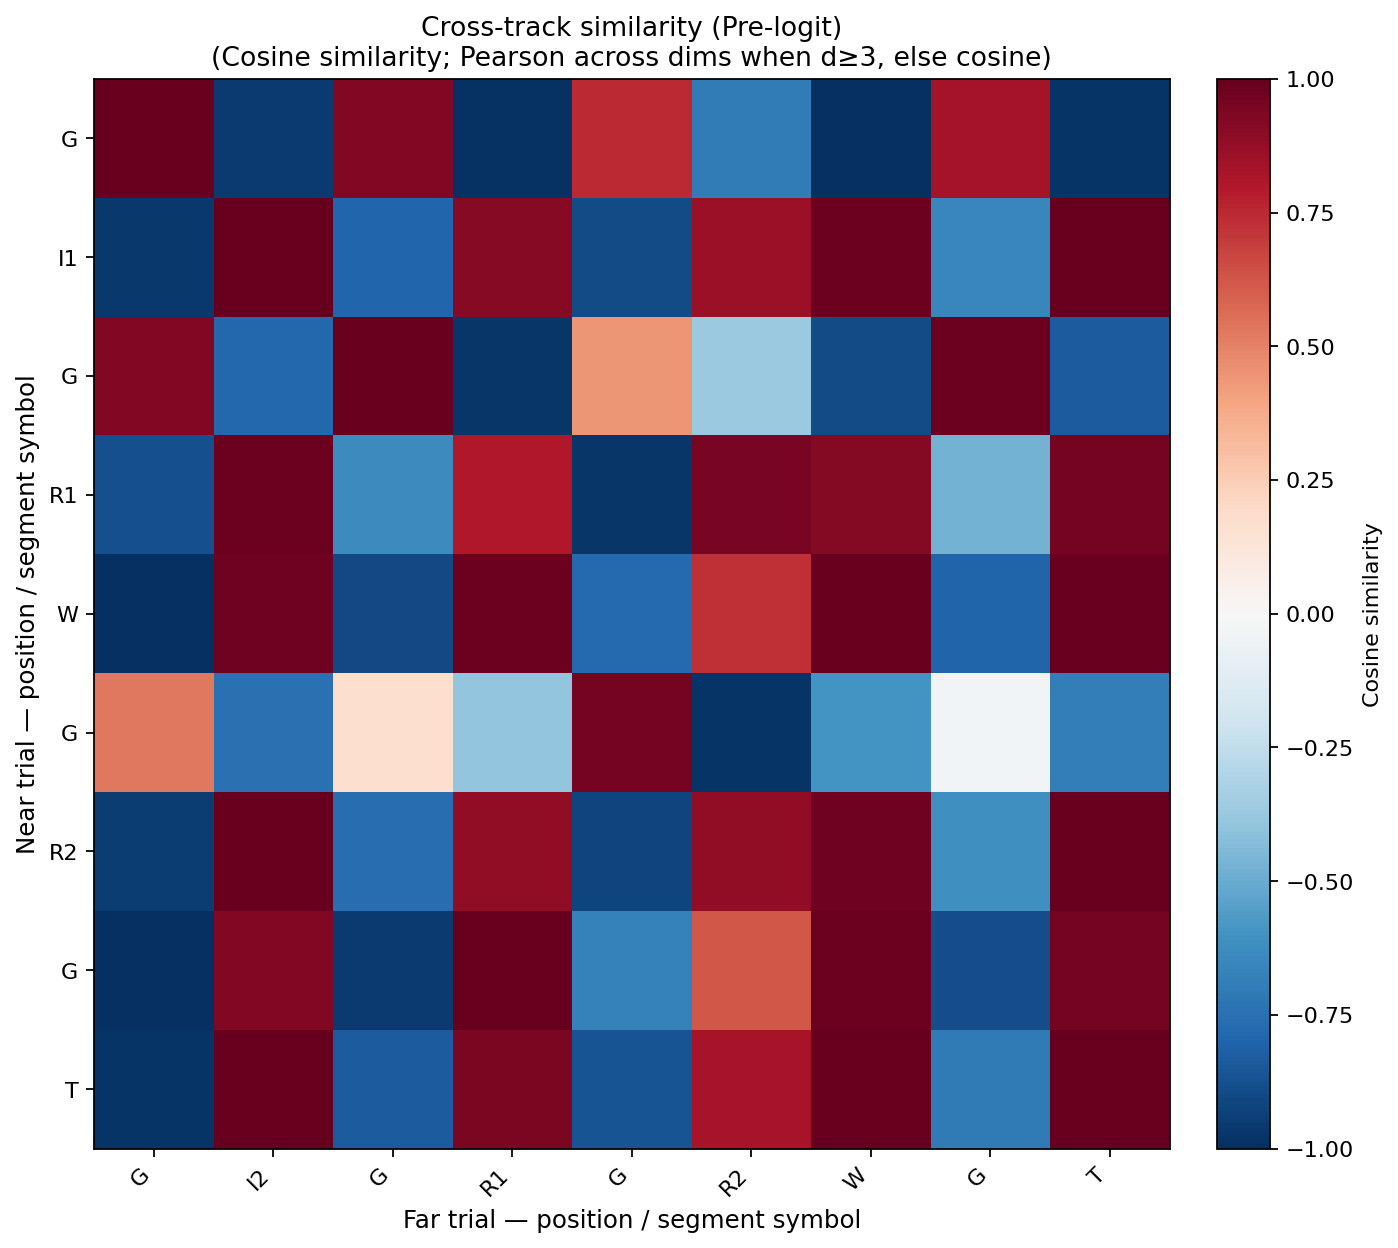
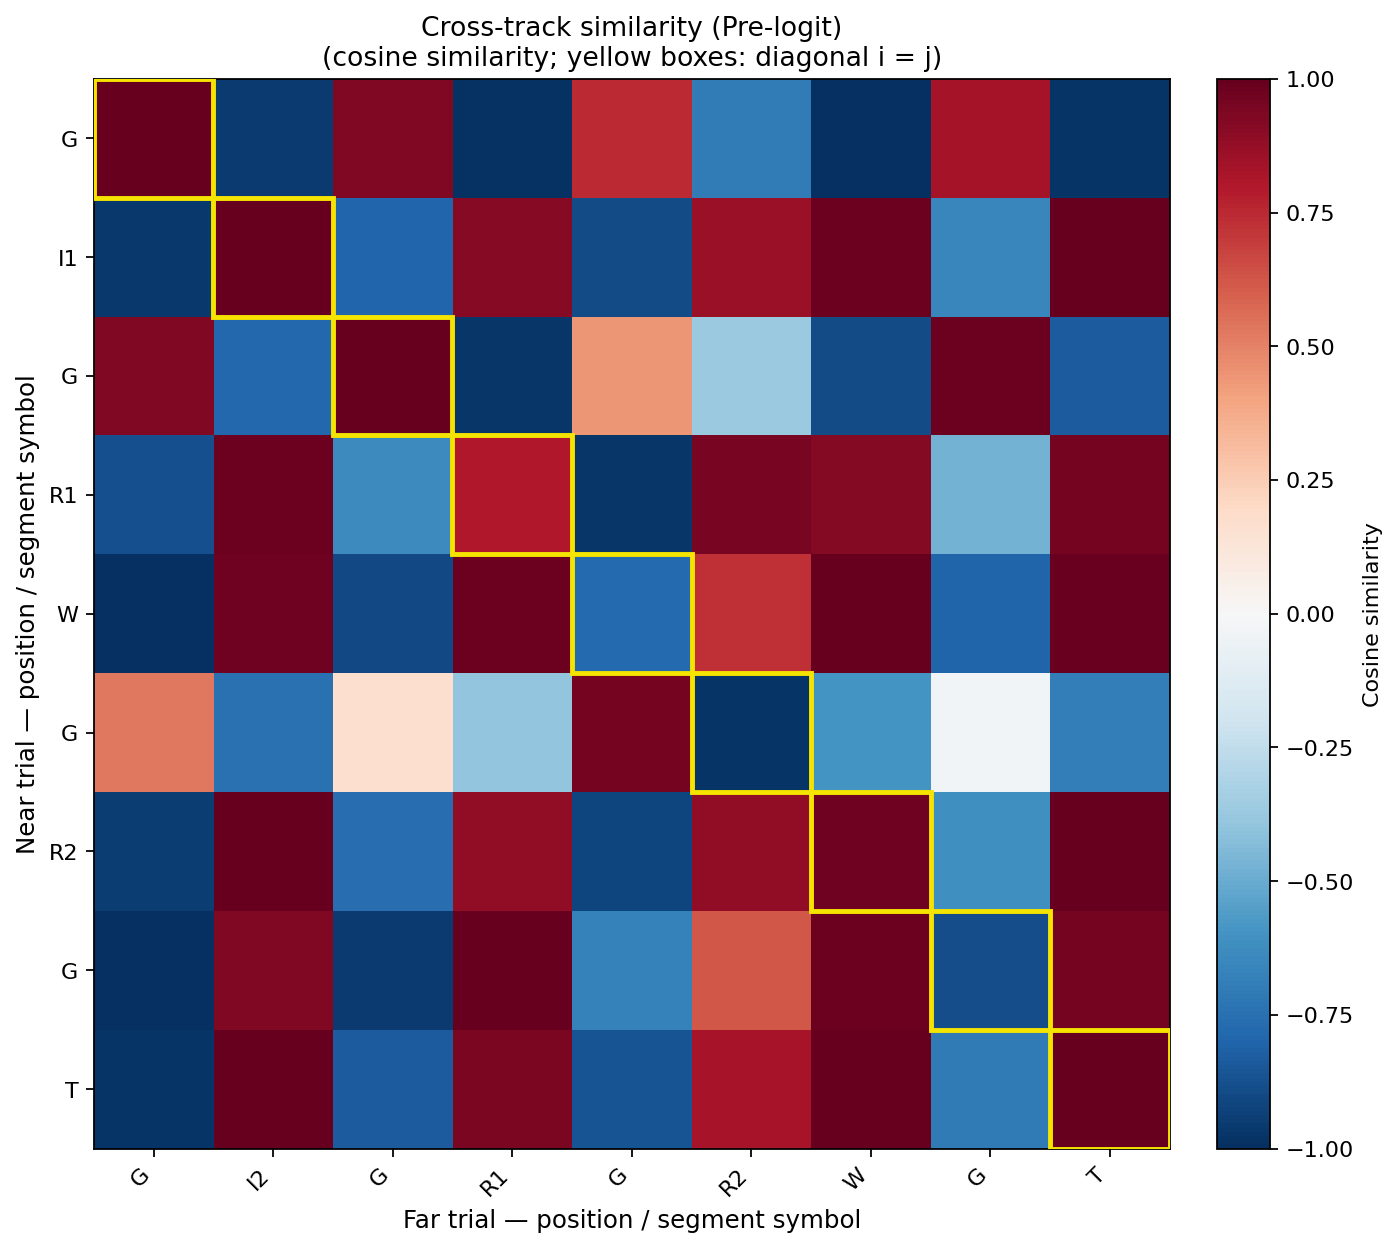
stuff

diff --git a/plotting/spruston_representation_correlation.py b/plotting/spruston_representation_correlation.py
@@ -1,33 +1,57 @@
-"""Near vs far trial representation correlation (Spruston-style) + training evolution grid."""
+"""Near vs far trial representation similarity (Spruston-style) + training evolution grid."""
 import os
 
 import matplotlib.pyplot as plt
 import numpy as np
 import torch
+from matplotlib.patches import Rectangle
 
 from checkpoint import list_available_checkpoints, load_checkpoint
 
 
-def _pearson_r(u: np.ndarray, v: np.ndarray) -> float:
-    """Pearson r with u_k, v_k as paired samples across channel index k."""
+def _imshow_extent(n_near: int, n_far: int) -> tuple[float, float, float, float]:
+    """Left, right, bottom, top so row i / col j cell centers align with integers."""
+    return (-0.5, n_far - 0.5, n_near - 0.5, -0.5)
+
+
+def _outline_diagonal(ax, n_near: int, n_far: int, *, edgecolor: str = "#f5e400", linewidth: float = 2.2):
+    """Draw a box around cells M[i, i] for i < min(n_near, n_far)."""
+    m = min(n_near, n_far)
+    for i in range(m):
+        ax.add_patch(
+            Rectangle(
+                (i - 0.5, i - 0.5),
+                1.0,
+                1.0,
+                fill=False,
+                edgecolor=edgecolor,
+                linewidth=linewidth,
+                zorder=10,
+            )
+        )
+
+
+def _cosine_similarity(u: np.ndarray, v: np.ndarray) -> float:
     u = np.asarray(u, dtype=np.float64).reshape(-1)
     v = np.asarray(v, dtype=np.float64).reshape(-1)
     if u.shape != v.shape:
         return float("nan")
-    su = float(np.std(u))
-    sv = float(np.std(v))
-    if su < 1e-12 or sv < 1e-12:
+    nu = float(np.linalg.norm(u))
+    nv = float(np.linalg.norm(v))
+    if nu < 1e-12 and nv < 1e-12:
         return 1.0 if np.allclose(u, v) else 0.0
-    return float(np.corrcoef(u, v)[0, 1])
+    if nu < 1e-12 or nv < 1e-12:
+        return 0.0
+    return float(np.clip(np.dot(u, v) / (nu * nv), -1.0, 1.0))
 
 
-def _corr_matrix(a: np.ndarray, b: np.ndarray) -> np.ndarray:
-    """a: (Ta, d), b: (Tb, d) → (Ta, Tb) Pearson r between rows across dims."""
+def _sim_matrix(a: np.ndarray, b: np.ndarray) -> np.ndarray:
+    """a: (Ta, d), b: (Tb, d) → (Ta, Tb) cosine similarity between rows."""
     ta, tb = a.shape[0], b.shape[0]
     out = np.zeros((ta, tb), dtype=np.float64)
     for i in range(ta):
         for j in range(tb):
-            out[i, j] = _pearson_r(a[i], b[j])
+            out[i, j] = _cosine_similarity(a[i], b[j])
     return out
 
 
@@ -39,19 +63,13 @@ def _attention_heads(model):
 
 @torch.no_grad()
 def _representation_dict(model: torch.nn.Module, idx: torch.Tensor) -> dict[str, np.ndarray]:
-    """idx: (1, T). Stacks for Pearson r **across channels** (paired u_k, v_k).
-
-    Token+position **sum** has only n_embd channels; Pearson needs ≥3 paired samples,
-    so with n_embd=2 correlating only the sum collapses to r ∈ {−1, 1}. We therefore
-    concatenate **separate** token and position embeddings, and prepend that to Q/K/V/pre.
-    """
+    """idx: (1, T). Per-position vectors for cosine similarity (tok+pos sum; Q/K/V/pre)."""
     device = idx.device
     B, T = idx.shape
     token_emb = model.token_embedding(idx)
     positions = torch.arange(T, device=device) % model.block_size
     pos_emb = model.position_embedding_table(positions)
     e = token_emb + pos_emb
-    base = torch.cat([token_emb, pos_emb], dim=-1)
 
     heads = _attention_heads(model)
     blocks = getattr(model, "blocks", None)
@@ -70,11 +88,11 @@ def _representation_dict(model: torch.nn.Module, idx: torch.Tensor) -> dict[str,
     _, _, pre = model(idx, return_hidden=True)
 
     return {
-        "emb": base[0].detach().cpu().numpy(),
-        "q": torch.cat([base, qs], dim=-1)[0].detach().cpu().numpy(),
-        "k": torch.cat([base, ks], dim=-1)[0].detach().cpu().numpy(),
-        "v": torch.cat([base, vs], dim=-1)[0].detach().cpu().numpy(),
-        "pre": torch.cat([base, pre], dim=-1)[0].detach().cpu().numpy(),
+        "emb": e[0].detach().cpu().numpy(),
+        "q": qs[0].detach().cpu().numpy(),
+        "k": ks[0].detach().cpu().numpy(),
+        "v": vs[0].detach().cpu().numpy(),
+        "pre": pre[0].detach().cpu().numpy(),
     }
 
 
@@ -87,11 +105,10 @@ def plot_spruston_near_far_evolution_grid(
     n_times: int = 5,
 ):
     """
-    5 rows × n_times columns: columns are checkpoints; rows are Embedding (tok ‖ pos),
-    Q/K/V/pre (each = tok ‖ pos ‖ that representation).
+    5 rows × n_times columns: checkpoints × (Embedding, Q, K, V, Pre-logit).
 
-    Each cell: Pearson r across channels between stacked vectors at near vs far positions
-    (emb = tok‖pos; q/k/v/pre = tok‖pos‖· ; cf. Sun et al.-style population correlation).
+    Each cell: cosine similarity between near-row vs far-column vectors at that segment.
+    Diagonal cells M[i, i] (matched segment index) are outlined when lengths allow.
     """
     steps_sorted = sorted(list_available_checkpoints(config_name_actual))
 
@@ -114,9 +131,11 @@ def plot_spruston_near_far_evolution_grid(
 
     labels_near = [str(itos[int(seq_near_ids[t])]) for t in range(len(seq_near_ids))]
     labels_far = [str(itos[int(seq_far_ids[t])]) for t in range(len(seq_far_ids))]
+    Ln, Lf = len(labels_near), len(labels_far)
+    extent = _imshow_extent(Ln, Lf)
 
     row_keys = ["emb", "q", "k", "v", "pre"]
-    row_labels = ["Embedding\n(tok ‖ pos)", "Q", "K", "V", "Pre-logit"]
+    row_labels = ["Embedding\n(tok+pos)", "Q", "K", "V", "Pre-logit"]
 
     fig, axes = plt.subplots(
         len(row_keys),
@@ -145,9 +164,18 @@ def plot_spruston_near_far_evolution_grid(
 
         for row, key in enumerate(row_keys):
             ax = axes[row, col]
-            M = _corr_matrix(rn[key], rf[key])
-            im = ax.imshow(M, cmap="RdBu_r", vmin=-1.0, vmax=1.0, aspect="auto")
+            M = _sim_matrix(rn[key], rf[key])
+            im = ax.imshow(
+                M,
+                cmap="RdBu_r",
+                vmin=-1.0,
+                vmax=1.0,
+                aspect="auto",
+                extent=extent,
+                origin="upper",
+            )
             last_im = im
+            _outline_diagonal(ax, Ln, Lf)
             ax.set_xticks([])
             ax.set_yticks([])
             if row == 0:
@@ -165,16 +193,16 @@ def plot_spruston_near_far_evolution_grid(
                     fontsize=10,
                 )
             if row == len(row_keys) - 1:
-                ax.set_xticks(range(len(labels_far)))
+                ax.set_xticks(range(Lf))
                 ax.set_xticklabels(labels_far, rotation=55, ha="right", fontsize=7)
                 ax.set_xlabel("Far trial position", fontsize=9)
             if col == 0:
-                ax.set_yticks(range(len(labels_near)))
+                ax.set_yticks(range(Ln))
                 ax.set_yticklabels(labels_near, fontsize=7)
 
     fig.suptitle(
-        "Near vs far: Pearson r across channels over training\n"
-        "(emb = tok ‖ pos; other rows prepend tok ‖ pos to Q/K/V/pre-logit)",
+        "Near vs far: cosine similarity over training\n"
+        "(rows: Embedding / Q / K / V / Pre-logit; yellow boxes: diagonal i = j)",
         fontsize=12,
         y=1.02,
     )
@@ -185,7 +213,7 @@ def plot_spruston_near_far_evolution_grid(
             ax=axes.ravel().tolist(),
             shrink=0.72,
             pad=0.02,
-            label="Pearson r",
+            label="Cosine similarity",
         )
 
     if save_path:
@@ -204,7 +232,7 @@ def plot_spruston_near_far_representation_correlation(
     save_path: str | None = None,
     title: str | None = None,
 ):
-    """Single-panel pre-logit correlation: tok ‖ pos ‖ pre-logit activations."""
+    """Single-panel pre-logit cosine similarity vs canonical far trial."""
     model.eval()
     device = next(model.parameters()).device
     Ln, Lf = len(seq_near_ids), len(seq_far_ids)
@@ -215,15 +243,24 @@ def plot_spruston_near_far_representation_correlation(
     with torch.no_grad():
         rn = _representation_dict(model, Xn)
         rf = _representation_dict(model, Xf)
-        mat = _corr_matrix(rn["pre"], rf["pre"])
+        mat = _sim_matrix(rn["pre"], rf["pre"])
     labels_near = [str(itos[int(seq_near_ids[t])]) for t in range(Ln)]
     labels_far = [str(itos[int(seq_far_ids[t])]) for t in range(Lf)]
 
     fig_w = max(8.0, Lf * 0.65 + 3)
     fig_h = max(6.0, Ln * 0.55 + 3)
     fig, ax = plt.subplots(figsize=(fig_w, fig_h))
-    im = ax.imshow(mat, cmap="RdBu_r", vmin=-1.0, vmax=1.0, aspect="auto")
-    plt.colorbar(im, ax=ax, fraction=0.046, pad=0.04, label="Pearson r")
+    im = ax.imshow(
+        mat,
+        cmap="RdBu_r",
+        vmin=-1.0,
+        vmax=1.0,
+        aspect="auto",
+        extent=_imshow_extent(Ln, Lf),
+        origin="upper",
+    )
+    _outline_diagonal(ax, Ln, Lf)
+    plt.colorbar(im, ax=ax, fraction=0.046, pad=0.04, label="Cosine similarity")
     ax.set_xticks(range(Lf))
     ax.set_xticklabels(labels_far, rotation=45, ha="right", fontsize=10)
     ax.set_yticks(range(Ln))
@@ -231,8 +268,8 @@ def plot_spruston_near_far_representation_correlation(
     ax.set_xlabel("Far trial — position / segment symbol", fontsize=11)
     ax.set_ylabel("Near trial — position / segment symbol", fontsize=11)
     ttl = title or (
-        "Cross-track correlation (Pre-logit)\n"
-        "(Pearson r across tok ‖ pos ‖ pre channels)"
+        "Cross-track similarity (Pre-logit)\n"
+        "(cosine similarity; yellow boxes: diagonal i = j)"
     )
     ax.set_title(ttl, fontsize=12)
     fig.tight_layout()

diff --git a/visualize.py b/visualize.py
@@ -520,7 +520,7 @@ def visualize_from_checkpoint(
             list(SPRUSTON_FAR_TRIAL),
             save_path=corr_path,
         )
-        print(f"Spruston near/far representation correlation saved to {corr_path}")
+        print(f"Spruston near/far representation similarity saved to {corr_path}")
 
         evo_path = os.path.join(plots_dir, "spruston_near_far_representation_evolution.png")
         plot_spruston_near_far_evolution_grid(
